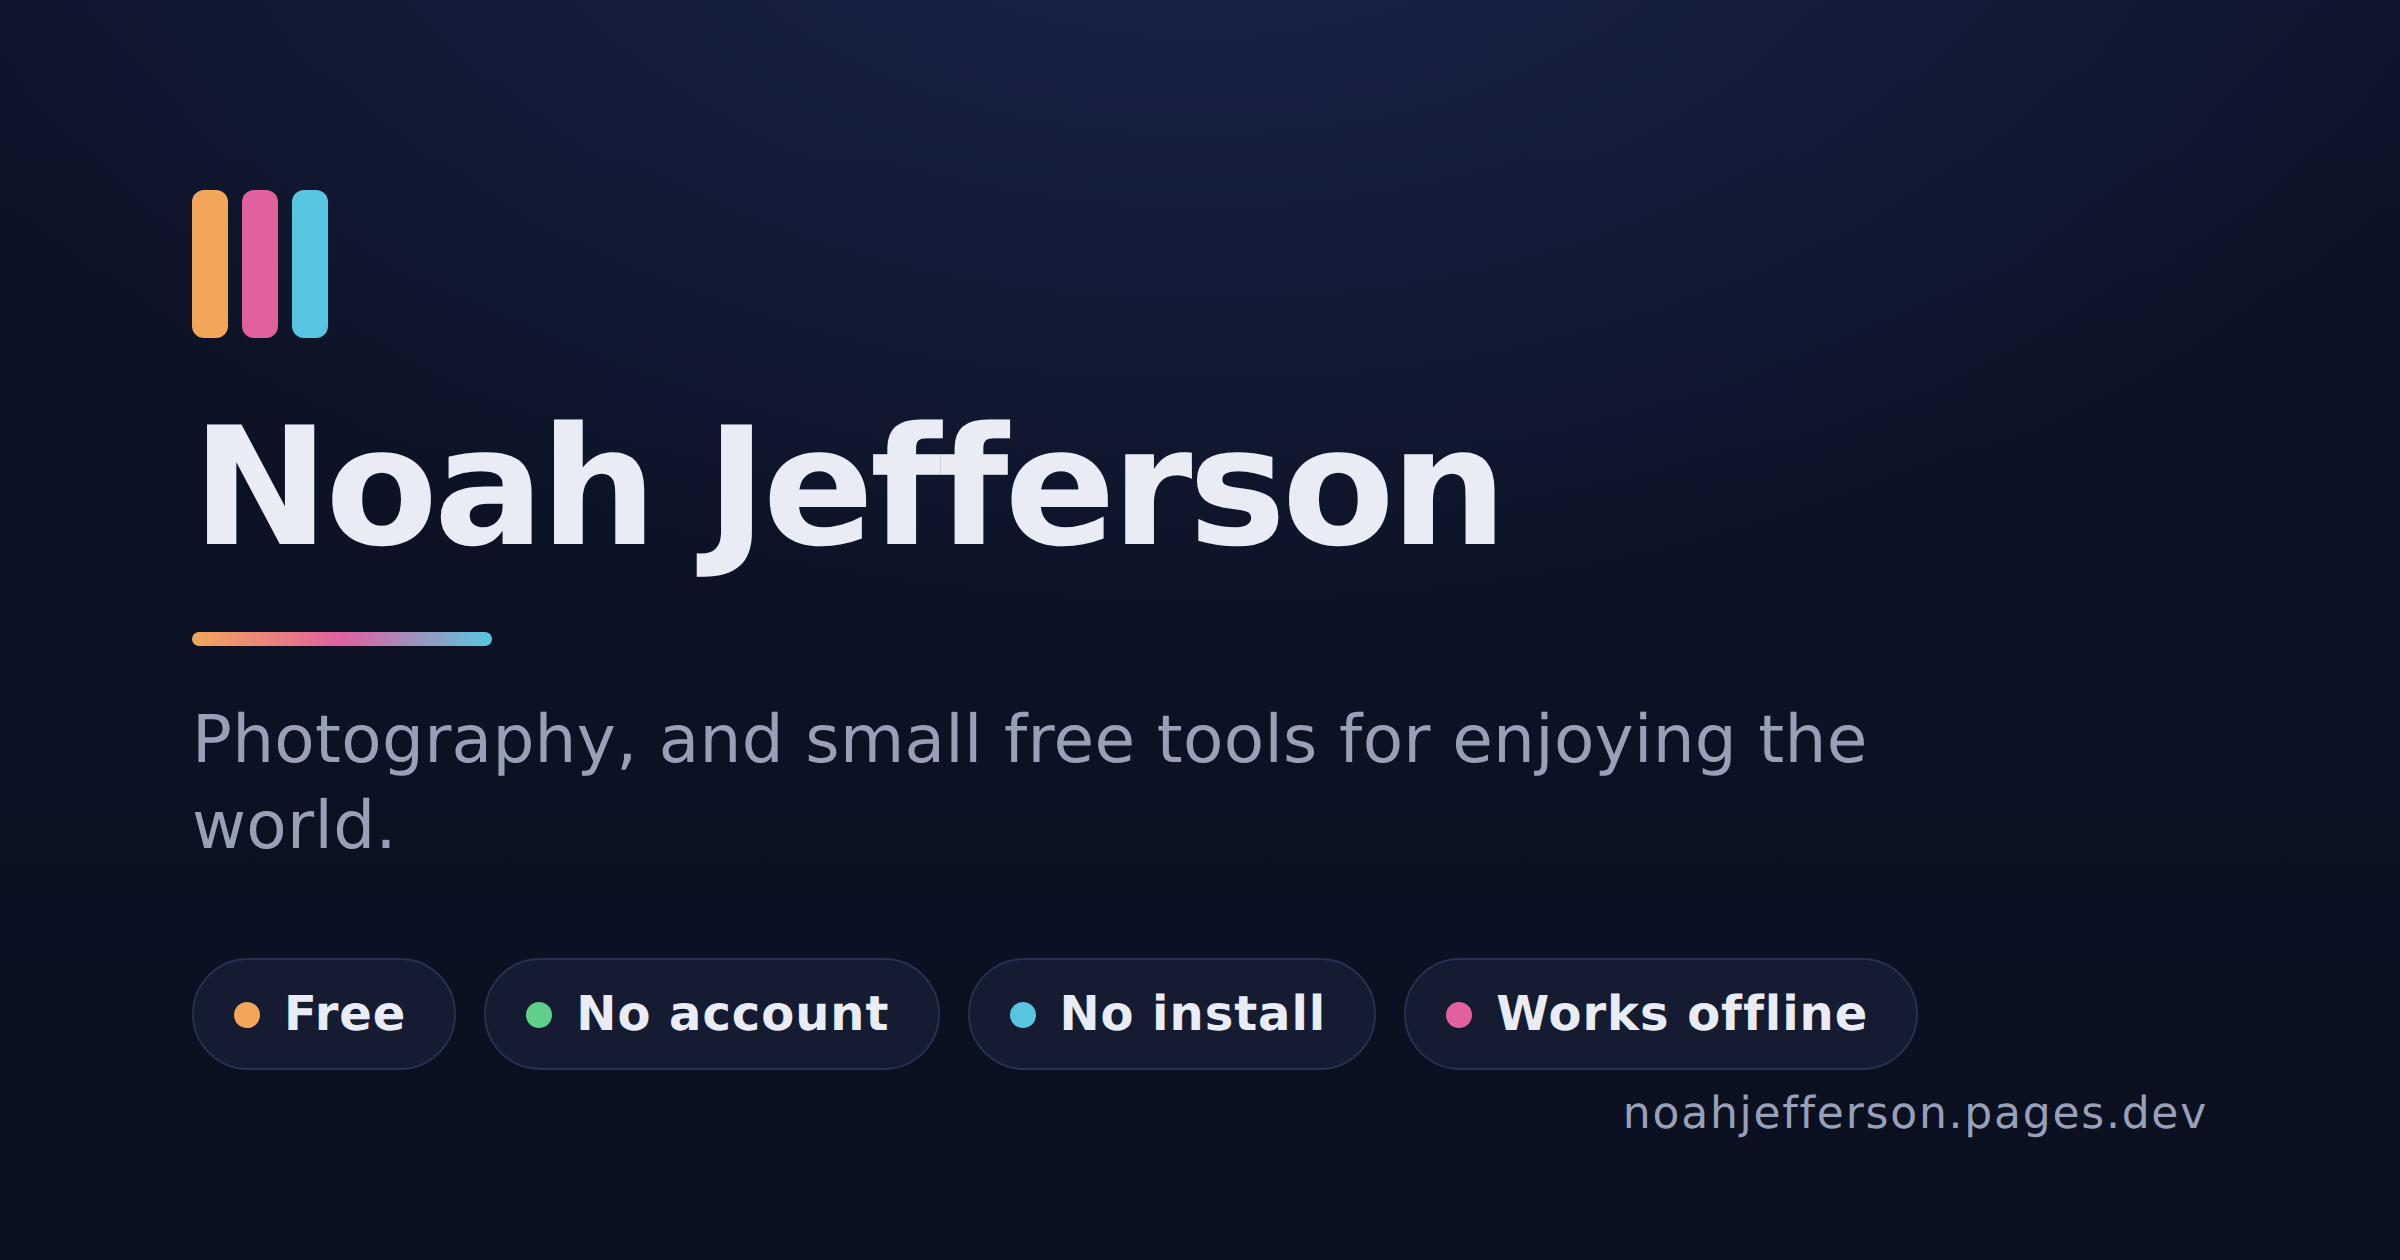
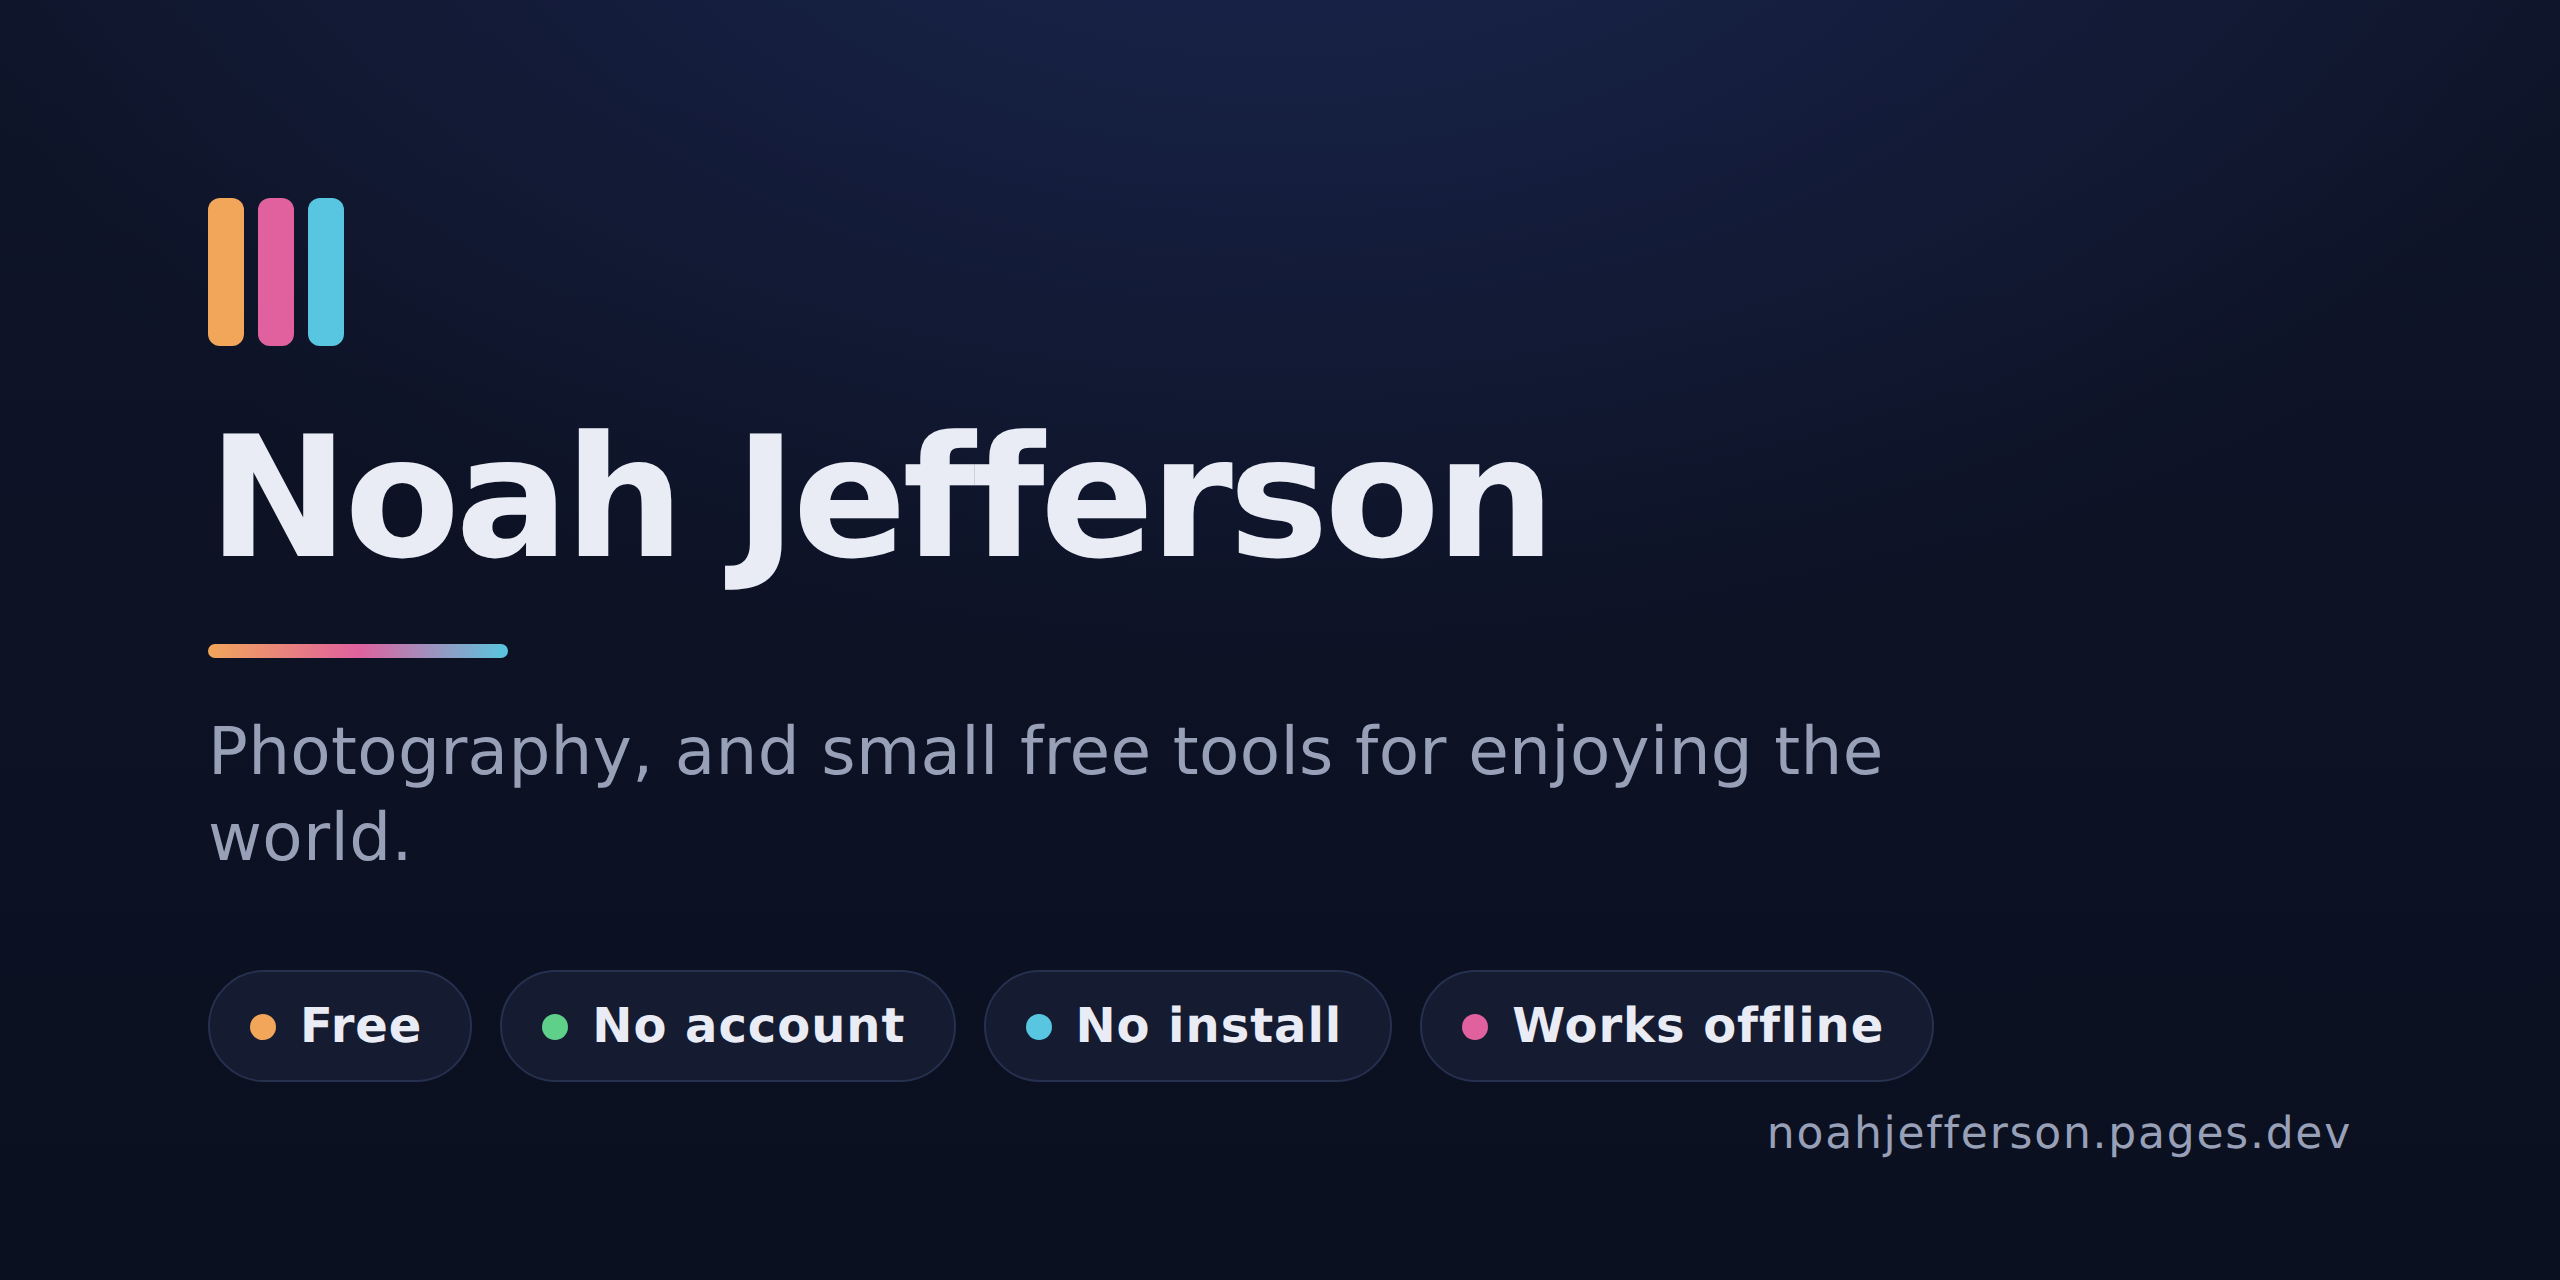
Deploy the hub's og.png — it was referenced but never in public/
index.html's og:image and METADATA.md both pointed at
noahjefferson.pages.dev/og.png, and the file had never been copied into
public/, so both were 404. The card is now actually deployed, and the
METADATA row says how to regenerate it.

Claude-Session: https://claude.ai/code/session_01VDN6UQv4NwKo7TjKiK3oxN

diff --git a/METADATA.md b/METADATA.md
@@ -32,7 +32,7 @@ under Settings → General → Social preview → Edit.
 | Description | Photography, and small free tools for enjoying the world. | proposed |
 | Website | https://noahjefferson.pages.dev | proposed |
 | Topics | `photography` `portfolio` `free-tools` `pwa` `offline-first` `static-site` | proposed |
-| Social preview | Save from https://noahjefferson.pages.dev/og.png (the deployed card) or regenerate with `node render-social.mjs`. | proposed |
+| Social preview | Delivered to Noah in chat, 2026-08-03. Also now genuinely at https://noahjefferson.pages.dev/og.png — the file had never been copied into `public/`, so index.html's og:image and the URL this row used to give were both 404. Regenerate with `node render-social.mjs`, then copy to `public/og.png`. | proposed |
 
 ---
 
